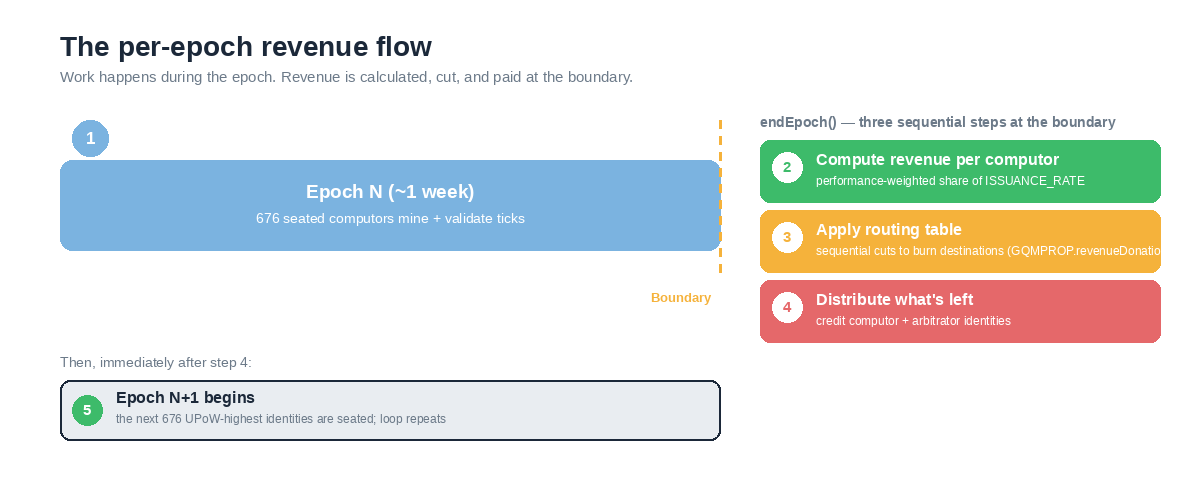
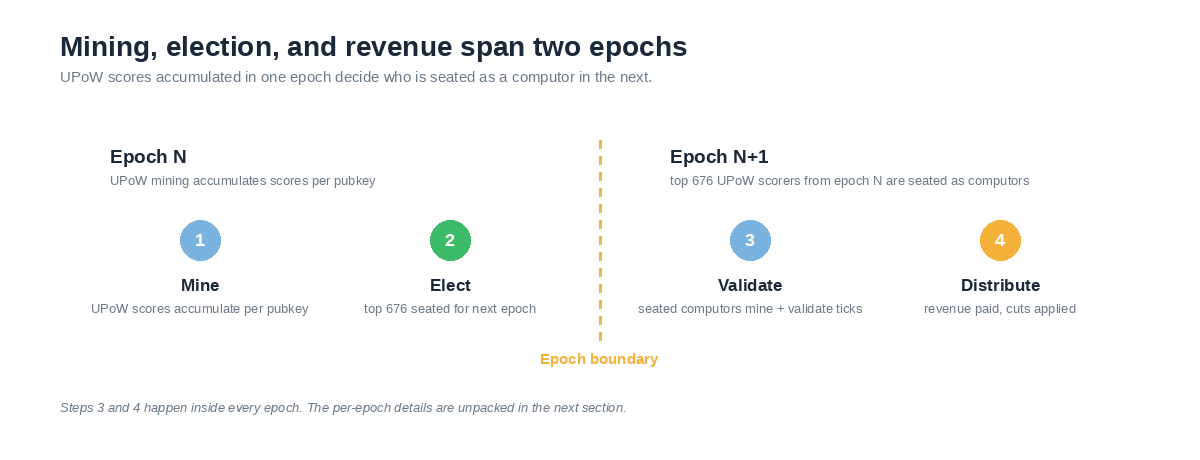
docs(learn): restore multi-epoch graphic, move to new placement
Roger: 'the old graphic was good, just not for that part. the new
graphic is not nice.'

Restored the earlier multi-epoch graphic — mining, election, and
revenue span two epochs — and moved it to a new subsection placed
BEFORE the 5-point per-epoch flow list, where its multi-epoch
story actually fits.

Refinements to the graphic itself (from the previous restored
version):
- Step 1 label changed 'Work' → 'Mine' to reflect what actually
  happens in epoch N before election (UPoW mining, not computor
  validation)
- Step 3 label changed 'Work' → 'Validate' to distinguish from
  step 1 (this is what SEATED computors do)
- Sub-labels updated to match: 'UPoW scores accumulate per pubkey'
  vs 'seated computors mine + validate ticks'
- Title updated to 'Mining, election, and revenue span two epochs'
- Bottom note now points forward to the per-epoch details section

Doc changes:
- New subsection 'Mining, election, and revenue span two epochs'
  added BEFORE 'From gross emission to computor revenue' section
- Old placement of the ThemedImage (after 'Points 2 through 4...'
  sentence) removed
- 'From gross emission to computor revenue' section reframed as
  'Inside one epoch...' since the multi-epoch context is now
  established earlier

Structure:
1. Two different things called 'halving'
2. Gross vs net emission
3. Mining, election, and revenue span two epochs (multi-epoch graphic)
4. From gross emission to computor revenue (5-point list, no graphic)
[…]

diff --git a/static/img/_generate_emission_diagrams.py b/static/img/_generate_emission_diagrams.py
@@ -88,105 +88,62 @@ def arrow(d, x1, y1, x2, y2, color, width=3, head=12):
 # ─── 1. Multi-epoch flow ─────────────────────────────────────────────────────
 
 def multi_epoch_flow(mode):
-    """Illustrates the numbered list in the doc:
-       1. Epoch N: computors work
-       2. End of Epoch N: revenue calc      ┐
-       3. End of Epoch N: routing table pass │ all inside endEpoch()
-       4. End of Epoch N: distribute         ┘
-       5. Epoch N+1 begins (new set seated)
+    """Multi-epoch view: mining → election → work → payment.
+
+    Restored from an earlier version — it's the compact big-picture story
+    of how computor life spans two epochs. Used in the doc as a
+    stage-setter, not as an illustration of the per-epoch endEpoch() flow.
     """
     c = theme_colors(mode)
-    W, H = 1200, 480
+    W, H = 1200, 460
     img = Image.new("RGB", (W, H), c["bg"])
     d = ImageDraw.Draw(img)
 
-    d.text((60, 30), "The per-epoch revenue flow",
+    d.text((60, 30), "Mining, election, and revenue span two epochs",
            font=f(28, "bld"), fill=c["text"])
     d.text((60, 68),
-           "Work happens during the epoch. Revenue is calculated, cut, and paid at the boundary.",
+           "UPoW scores accumulated in one epoch decide who is seated as a computor in the next.",
            font=f(15, "reg"), fill=c["text_sub"])
 
-    # ── Timeline strip
-    strip_x0 = 60
-    strip_x1 = 720
-    strip_y  = 160
-    strip_h  = 90
-    rounded_box(d, (strip_x0, strip_y, strip_x1, strip_y + strip_h),
-                radius=12, fill=BLUE)
-    text_center(d, (strip_x0 + strip_x1) // 2, strip_y + strip_h // 2 - 12,
-                "Epoch N (~1 week)", f(19, "bld"), WHITE)
-    text_center(d, (strip_x0 + strip_x1) // 2, strip_y + strip_h // 2 + 14,
-                "676 seated computors mine + validate ticks", f(14, "reg"), WHITE)
-
-    # Numbered step 1 badge, above the strip
-    d.ellipse([strip_x0 + 30 - 18, strip_y - 40, strip_x0 + 30 + 18, strip_y - 4],
-              fill=BLUE)
-    text_center(d, strip_x0 + 30, strip_y - 22, "1", f(17, "bld"), WHITE)
-
-    # ── Boundary label
+    # Epoch boundary dashed line
     def dashed_vline(x, y0, y1, color, dash=8, width=3):
         y = y0
         while y < y1:
             d.line([(x, y), (x, min(y + dash, y1))], fill=color, width=width)
             y += dash * 2
 
-    dashed_vline(strip_x1, strip_y - 40, strip_y + strip_h + 30, GOLD, dash=8)
-    # Small "Boundary" label aligned LEFT of the boundary line so it doesn't
-    # overlap with the endEpoch cascade to the right.
-    label_font = f(13, "bld")
-    label_text = "Boundary"
-    bbox = d.textbbox((0, 0), label_text, font=label_font)
-    d.text((strip_x1 - (bbox[2] - bbox[0]) - 8, strip_y + strip_h + 40),
-           label_text, font=label_font, fill=GOLD)
+    epoch_x = W // 2
+    dashed_vline(epoch_x, 140, 340, GOLD, dash=8)
+    d.text((epoch_x - 60, 350), "Epoch boundary",
+           font=f(15, "bld"), fill=GOLD)
 
-    # ── endEpoch() cascade — three boxes on the right stacked vertically
-    endep_x0 = strip_x1 + 40
-    endep_x1 = W - 40
-    box_h    = 62
-    box_gap  = 8
-    cascade_y0 = strip_y - 20  # slightly lower to leave room for header
+    # Epoch column headers — offset from the boundary so text doesn't touch it
+    d.text((110, 145), "Epoch N", font=f(19, "bld"), fill=c["text"])
+    d.text((110, 173), "UPoW mining accumulates scores per pubkey",
+           font=f(13, "reg"), fill=c["text_sub"])
+    d.text((epoch_x + 70, 145), "Epoch N+1", font=f(19, "bld"), fill=c["text"])
+    d.text((epoch_x + 70, 173),
+           "top 676 UPoW scorers from epoch N are seated as computors",
+           font=f(13, "reg"), fill=c["text_sub"])
 
-    # Header above the cascade — makes clear these 3 are one function
-    d.text((endep_x0, cascade_y0 - 26),
-           "endEpoch() — three sequential steps at the boundary",
-           font=f(14, "bld"), fill=c["text_sub"])
-
-    endep_steps = [
-        ("2", "Compute revenue per computor",
-              "performance-weighted share of ISSUANCE_RATE", GREEN),
-        ("3", "Apply routing table",
-              "sequential cuts to burn destinations (GQMPROP.revenueDonation)", GOLD),
-        ("4", "Distribute what's left",
-              "credit computor + arbitrator identities", RED),
+    # 4 numbered steps — evenly spaced, text stacked vertically below each badge.
+    step_data = [
+        (200,  "1", "Mine",       "UPoW scores accumulate per pubkey",    BLUE),
+        (450,  "2", "Elect",      "top 676 seated for next epoch",         GREEN),
+        (750,  "3", "Validate",   "seated computors mine + validate ticks", BLUE),
+        (1000, "4", "Distribute", "revenue paid, cuts applied",             GOLD),
     ]
-    y = cascade_y0
-    for num, label, sub, color in endep_steps:
-        rounded_box(d, (endep_x0, y, endep_x1, y + box_h),
-                    radius=10, fill=color)
-        # Number badge inside the box, left side
-        d.ellipse([endep_x0 + 12, y + 12, endep_x0 + 42, y + 42], fill=WHITE)
-        text_center(d, endep_x0 + 27, y + 27, num, f(15, "bld"), color)
-        # Label + sub
-        d.text((endep_x0 + 56, y + 10), label,
-               font=f(16, "bld"), fill=WHITE)
-        d.text((endep_x0 + 56, y + 34), sub,
-               font=f(12, "reg"), fill=WHITE)
-        y += box_h + box_gap
+    badge_y = 240
+    for x, num, label, sub, color in step_data:
+        d.ellipse([x - 20, badge_y - 20, x + 20, badge_y + 20], fill=color)
+        text_center(d, x, badge_y, num, f(18, "bld"), WHITE)
+        text_center(d, x, badge_y + 45, label, f(17, "bld"), c["text"])
+        text_center(d, x, badge_y + 70, sub, f(13, "reg"), c["text_sub"])
 
-    # ── Point 5: Epoch N+1 begins — small pill BELOW the cascade
-    p5_y = 380
-    d.text((60, p5_y - 26),
-           "Then, immediately after step 4:",
-           font=f(14, "reg"), fill=c["text_sub"])
-    rounded_box(d, (60, p5_y, 60 + 660, p5_y + 60),
-                radius=10, fill=c["card"], outline=c["border"], width=2)
-    d.ellipse([60 + 12, p5_y + 15, 60 + 42, p5_y + 45], fill=GREEN)
-    text_center(d, 60 + 27, p5_y + 30, "5", f(15, "bld"), WHITE)
-    d.text((60 + 56, p5_y + 8), "Epoch N+1 begins",
-           font=f(16, "bld"), fill=c["text"])
-    d.text((60 + 56, p5_y + 32),
-           "the next 676 UPoW-highest identities are seated; loop repeats",
-           font=f(12, "reg"), fill=c["text_sub"])
+    # Bottom explanatory line
+    d.text((60, 400),
+           "Steps 3 and 4 happen inside every epoch. The per-epoch details are unpacked in the next section.",
+           font=f(13, "itl"), fill=c["text_sub"])
 
     img.save(f"emission-multi-epoch-{mode}.png", "PNG")
     print(f"wrote emission-multi-epoch-{mode}.png")

diff --git a/docs/learn/emission-mechanism.md b/docs/learn/emission-mechanism.md
@@ -26,9 +26,23 @@ This is the **gross** emission. What actually enters circulating user hands is s
 
 The chain has several burn paths (SC-IPO Dutch auction bids, dust-threshold burns, XMR-driven programs, and more) — the one we're documenting here is the largest and the one the "halving" adjusts.
 
+## Mining, election, and revenue span two epochs
+
+Before we walk through what happens inside one epoch, note that a computor's life spans two epoch boundaries. Mining is continuous — anyone can produce UPoW proofs and accumulate scores against their public key. At the end of an epoch, the top 676 pubkeys by score are seated as computors for the *next* epoch, and *those* computors are the ones who receive revenue at the end of that next epoch.
+
+<ThemedImage
+  alt="Mining, election, and revenue span two epochs"
+  sources={{
+    light: useBaseUrl('/img/emission-multi-epoch-light.png'),
+    dark:  useBaseUrl('/img/emission-multi-epoch-dark.png'),
+  }}
+/>
+
+The rest of this page zooms into *one* epoch — specifically, the end-of-epoch cascade that computes revenue, applies the routing table, and pays computors. Election happens as part of that same boundary transition; see [Upgrading](../computors/upgrading.md) for the tick-continuity mechanics.
+
 ## From gross emission to computor revenue
 
-Emission does not go straight into circulating supply. It's paid out per epoch, based on per-computor performance, through this sequence:
+Inside one epoch, emission is paid out per computor through this sequence:
 
 1. **Epoch N: work.** The 676 computors seated for epoch N produce ticks, sign votes, and process transactions. Their per-tick contribution is tracked.
 2. **End of epoch N: revenue calculation.** The core computes each computor's revenue for the epoch based on their performance.
@@ -36,15 +50,7 @@ Emission does not go straight into circulating supply. It's paid out per epoch, 
 4. **End of epoch N: distribute.** Whatever is left after the donation-table pass is paid to the computor; the residual of the epoch's ISSUANCE_RATE that wasn't consumed by computors goes to the arbitrator identity.
 5. **Epoch N+1 begins.** The next epoch's computor set is seated (elected from the highest UPoW-scoring identities of epoch N), and the loop repeats.
 
-Points 2 through 4 all happen inside `endEpoch()` in `qubic/core/src/qubic.cpp` — the per-computor revenue loop, the donation-table application, and the actual balance updates to the computor and arbitrator identities are one function call. Point 5 is the boundary transition — see [Upgrading](../computors/upgrading.md) for the tick-continuity mechanics.
-
-<ThemedImage
-  alt="Election, work, and revenue span two epochs"
-  sources={{
-    light: useBaseUrl('/img/emission-multi-epoch-light.png'),
-    dark:  useBaseUrl('/img/emission-multi-epoch-dark.png'),
-  }}
-/>
+Points 2 through 4 all happen inside `endEpoch()` in `qubic/core/src/qubic.cpp` — the per-computor revenue loop, the donation-table application, and the actual balance updates to the computor and arbitrator identities are one function call.
 
 ## The routing table
 
